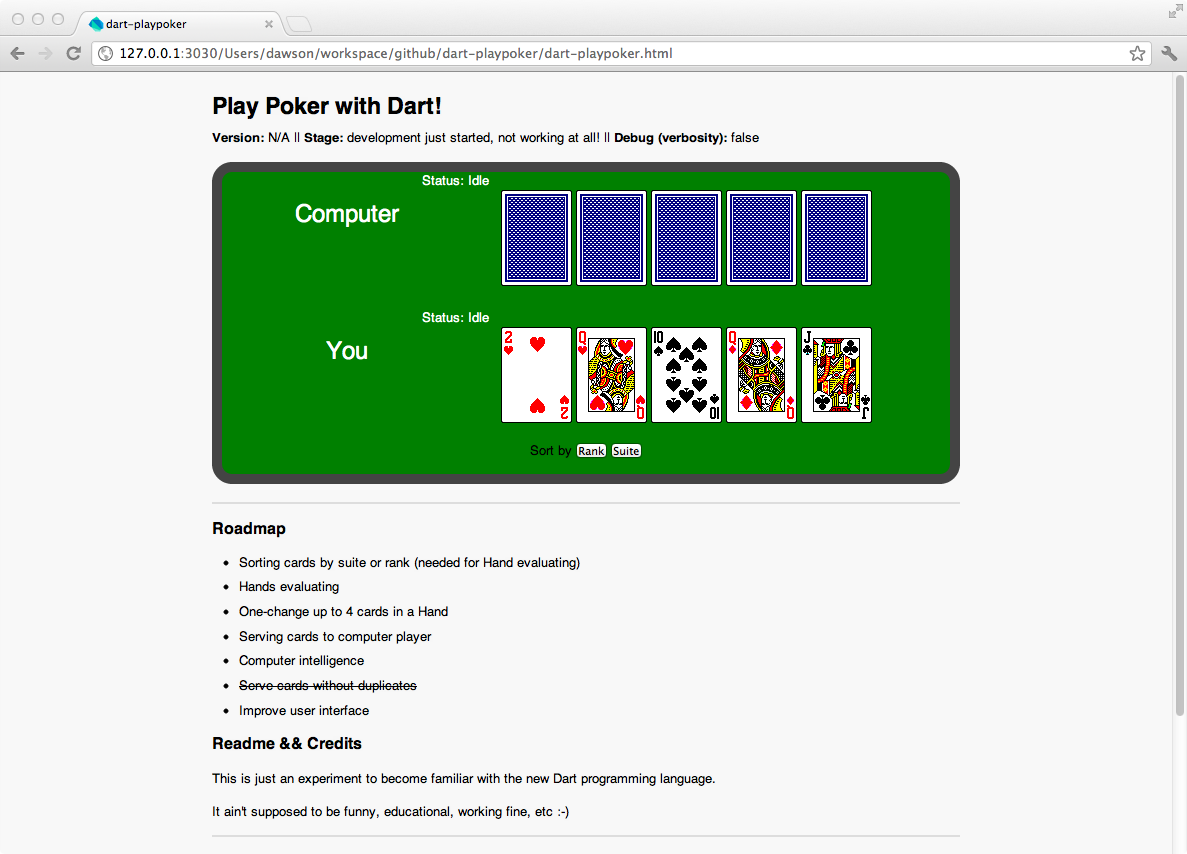
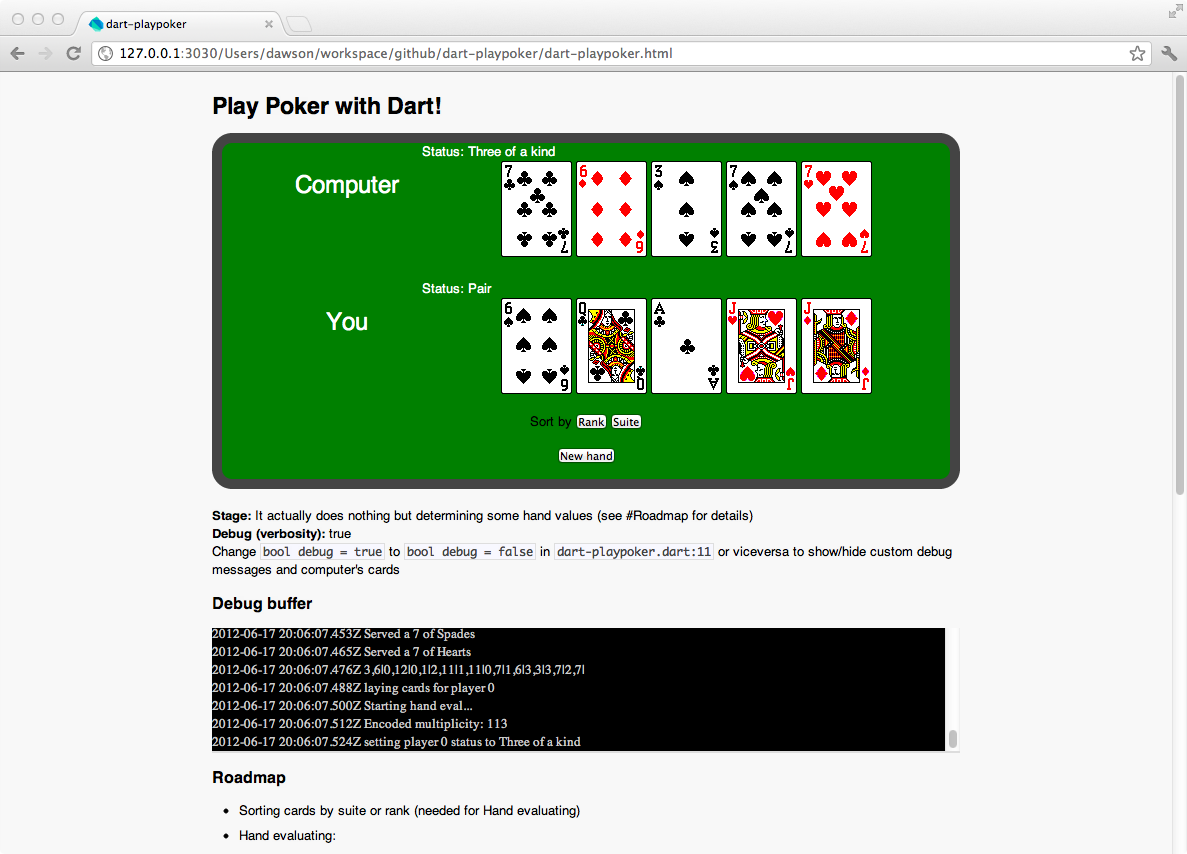
some improvements

Changed region(s): [[0.1559, 0.1522, 0.8104, 1.0], [0.9663, 0.5785, 0.9975, 0.8525], [0.2805, 0.3653, 0.3117, 0.4262]]

diff --git a/Hand.dart b/Hand.dart
@@ -1,12 +1,47 @@
 class Hand {
-  
+
     num player;
     String hand;
     Card slot1,slot2,slot3,slot4,slot5;
+    /*
+      Nasty workaround
+    */
+    static String notInDeck = '';
+    
+    serveHand(){
+      List servedCards=new List();
+      List servedPlainCards =  new List();
+
+      while(servedCards.length<5){
+        Card receivedCard = pickCard();
+        if(servedPlainCards.indexOf('${receivedCard.s},${receivedCard.r}')==-1 && !notInDeck.contains('${receivedCard.s},${receivedCard.r}|')){
+          servedPlainCards.add('${receivedCard.s},${receivedCard.r}');
+          servedCards.add(receivedCard);
+          notInDeck='$notInDeck''${receivedCard.s},${receivedCard.r}|';
+          }
+        }
+      this.slot1=servedCards[0];
+      this.slot2=servedCards[1];
+      this.slot3=servedCards[2];
+      this.slot4=servedCards[3];
+      this.slot5=servedCards[4];
+      fdb(notInDeck);
+    }
+
+    Card pickCard(){
+      int rnd, randomSuite, randomRank;
+      rnd = new Date.now().value;
+      randomSuite = ((rnd/(255*Math.random())).toInt()) %4;
+      rnd = new Date.now().value;
+      randomRank = ((rnd/(255*Math.random())).toInt()) %14;
+          if(randomRank==0){randomRank++;}
+      Card giveCard = new Card(randomSuite,randomRank);
+      return giveCard;
+    }
     
     lay(){
     String slotImgPrefix,cardImgPrefix;
-    fdb('laying cards for player $player');
+    fdb('laying cards for player ${this.player}');
     if(player==1){
       slotImgPrefix='h';
       }
@@ -58,8 +93,7 @@ class Hand {
         cardsMultiplicity[allSlots[x]]++;
       }
     }
-    
-    
+
     cardsMultiplicity.forEach((k,v) => listCardsMultiplicity.add(v));
     listCardsMultiplicity.sort(compare(a,b) {
       if (a == b) {
@@ -102,11 +136,8 @@ class Hand {
   updateStatus(this.player,this.hand);
   return this.hand;
   }
-    
-  
-  
+ 
   Hand sort(){}
+
   int compare(Hand opponent){}
-
-
 }

diff --git a/dart-playpoker.html b/dart-playpoker.html
@@ -8,10 +8,9 @@
   </head>
   <body>
     <h1>Play Poker with Dart!</h1>
-    <p id="status"></p>
     <script type="application/dart" src="dart-playpoker.dart"></script>
     <script src="http://dart.googlecode.com/svn/branches/bleeding_edge/dart/client/dart.js"></script>
-  
+  <br/>
   <div id="table">
 	<div id="computerHand">
 		<div class="playerName"><p>Computer</p></div>
@@ -39,9 +38,11 @@
 	  	</div>
 	  <p>Sort by <button id="sortByRank">Rank</button> <button id="sortBySuite">Suite</button> </p>
 	  </div>
-
+<p><button id="newHandButton">New hand</button></p>
   </div>
   <br/>
+      <div id="status"></div>
+  
 	<div id="debugBuffer">
 	<h3>Debug buffer</h3>
   	<div id="debug"></div>
@@ -51,9 +52,21 @@
   <h3>Roadmap</h3>
   <ul>
   <li>Sorting cards by suite or rank (needed for Hand evaluating)</li>
-  <li>Hands evaluating</li>
+  <li>Hand evaluating:</li>
+  <ul>
+  <li>High card</li>
+  <li><s>Pair</s></li>
+  <li><s>Two pairs</s></li>
+  <li><s>Three of a kind</s></li>
+  <li>Straight</li>
+  <li><s>Fullhouse</s></li>
+  <li>Flush</li>
+  <li><s>Four of a kind</s></li>
+  <li>Straight Flush</li>
+  </ul>
+  <li>Hands comparing</li>
   <li>One-change up to 4 cards in a Hand</li>
-  <li>Serving cards to computer player</li>
+  <li><s>Serving cards to computer player</s></li>
   <li>Computer intelligence</li>
   <li><s>Serve cards without duplicates</s></li>
   <li>Improve user interface</li>

diff --git a/PokerEngine.dart b/PokerEngine.dart
@@ -1,23 +1,21 @@
-void serveHand(int player){
-  List servedCards=new List();
-  List servedPlainCards =  new List();
-  while(servedCards.length<5){
-    Card receivedCard = pickCard();
-    if(servedPlainCards.indexOf('${receivedCard.s},${receivedCard.r}')==-1){
-      servedPlainCards.add('${receivedCard.s},${receivedCard.r}');
-      servedCards.add(receivedCard);
-      }
-    }
-  Hand playerHand=new Hand(1,servedCards[0],servedCards[1],servedCards[2],servedCards[3],servedCards[4],'Not set');
-}
+void newHand(){
+  /*
+    nasty workaround (see Hand.dart:8)
+  */
+  Hand.notInDeck = '';
+  
+  Hand playerHand = new Hand();
+  Hand computerHand = new Hand();
+  
+  playerHand.player = 1;
+  playerHand.serveHand();
+  playerHand.lay();
+  playerHand.evaluate();
 
-Card pickCard(){
-  int rnd, randomSuite, randomRank;
-  rnd = new Date.now().value;
-  randomSuite = ((rnd/(255*Math.random())).toInt()) %4;
-  rnd = new Date.now().value;
-  randomRank = ((rnd/(255*Math.random())).toInt()) %14;
-      if(randomRank==0){randomRank++;}
-  Card giveCard = new Card(randomSuite,randomRank);
-  return giveCard;
+  computerHand.player = 0;
+  computerHand.serveHand();
+  if(debug){
+    computerHand.lay();
+  }
+  computerHand.evaluate();
 }

diff --git a/UI.dart b/UI.dart
@@ -1,10 +1,9 @@
-
 void initialize(){
   if(!debug){
     document.query('#debugBuffer').hidden=true;
   }
   fdb('Initializing...');
-  document.query('#status').innerHTML = '<b>Version:</b> $version || <b>Stage: </b> $developmentStatus || <b>Debug (verbosity): </b>$debug';
+  document.query('#status').innerHTML = '<b>Stage: </b> $developmentStatus<br/><b>Debug (verbosity): </b>$debug<br/>Change <code>bool debug = true</code> to <code>bool debug = false</code> in <code>dart-playpoker.dart:11</code> or viceversa to show/hide custom debug messages and computer\'s cards';
 
   for (var i = 1; i < 6; i++) {
     document.query('#c$i').src = 'img/deck.png';
@@ -14,13 +13,6 @@ void initialize(){
   //Human     player 1;
   updateStatus(0,"Idle");  
   updateStatus(1,"Idle"); 
-
-
-  
-  //Serving hand to players
-  //serveHand(0);
-  serveHand(1);
-  
   
   document.query('#sortByRank').on.click.add((e) {
     fdb('Not implemented yet');
@@ -30,6 +22,9 @@ void initialize(){
     fdb('Not implemented yet');
   });
   
+  document.query('#newHandButton').on.click.add((e){
+    newHand();
+  });
 
 }
 
@@ -57,4 +52,3 @@ void fdb(String debugMsg){
   document.query('#debug').scrollByLines(9999999);
   }
 }
-

diff --git a/dart-playpoker.dart b/dart-playpoker.dart
@@ -5,13 +5,12 @@
 #source('Hand.dart');
 #source('Card.dart');
 
-var version = 'N/A';
-var developmentStatus = 'development just started, it does nothing but determining some hand values.';
-final bool debug = true;
+var version = '';
+var developmentStatus = 'It actually does nothing but determining some hand values (see #Roadmap for details)';
+
+bool debug = true;
 
 void main() {
-  Hand playerHand= new Hand();
-  Hand computerHand= new Hand();
-  
   initialize();
+  newHand();
 }

diff --git a/Card.dart b/Card.dart
@@ -1,7 +1,9 @@
 class Card {
   num s, r;
   Card(this.s,this.r){
-    fdb('Served a ${this.nameOfCard()}');}
+    fdb('Served a ${this.nameOfCard()}');
+  }
+
   String nameOfCard(){
     var suiteNames = ['Clubs','Diamonds','Hearts','Spades'];
     var rankNames = ['None','Ace', '2', '3', '4', '5', '6', '7','8', '9', '10', 'Jack', 'Queen', 'King'];
